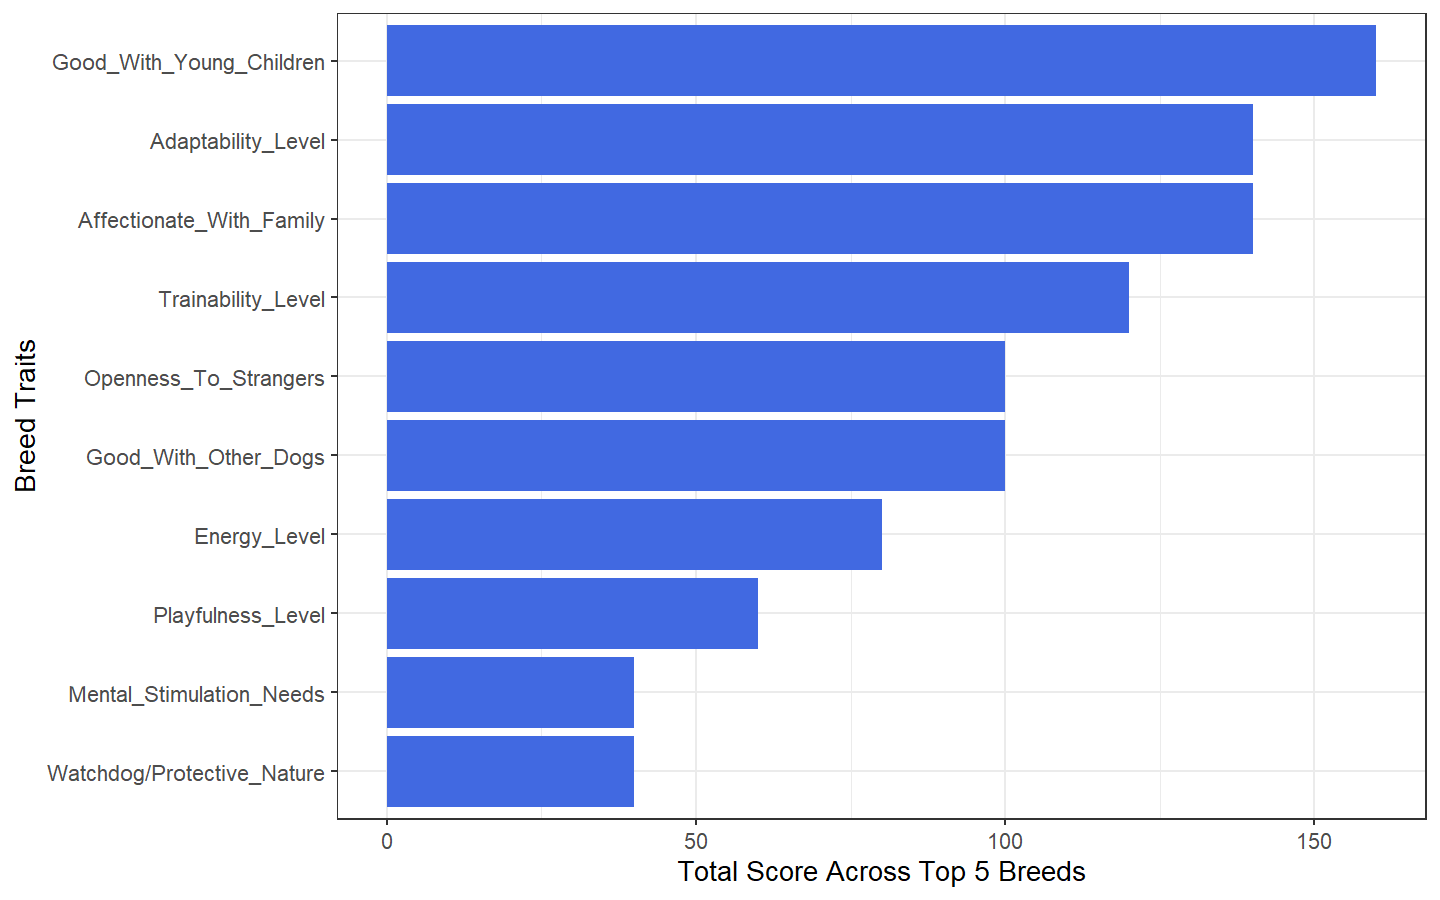
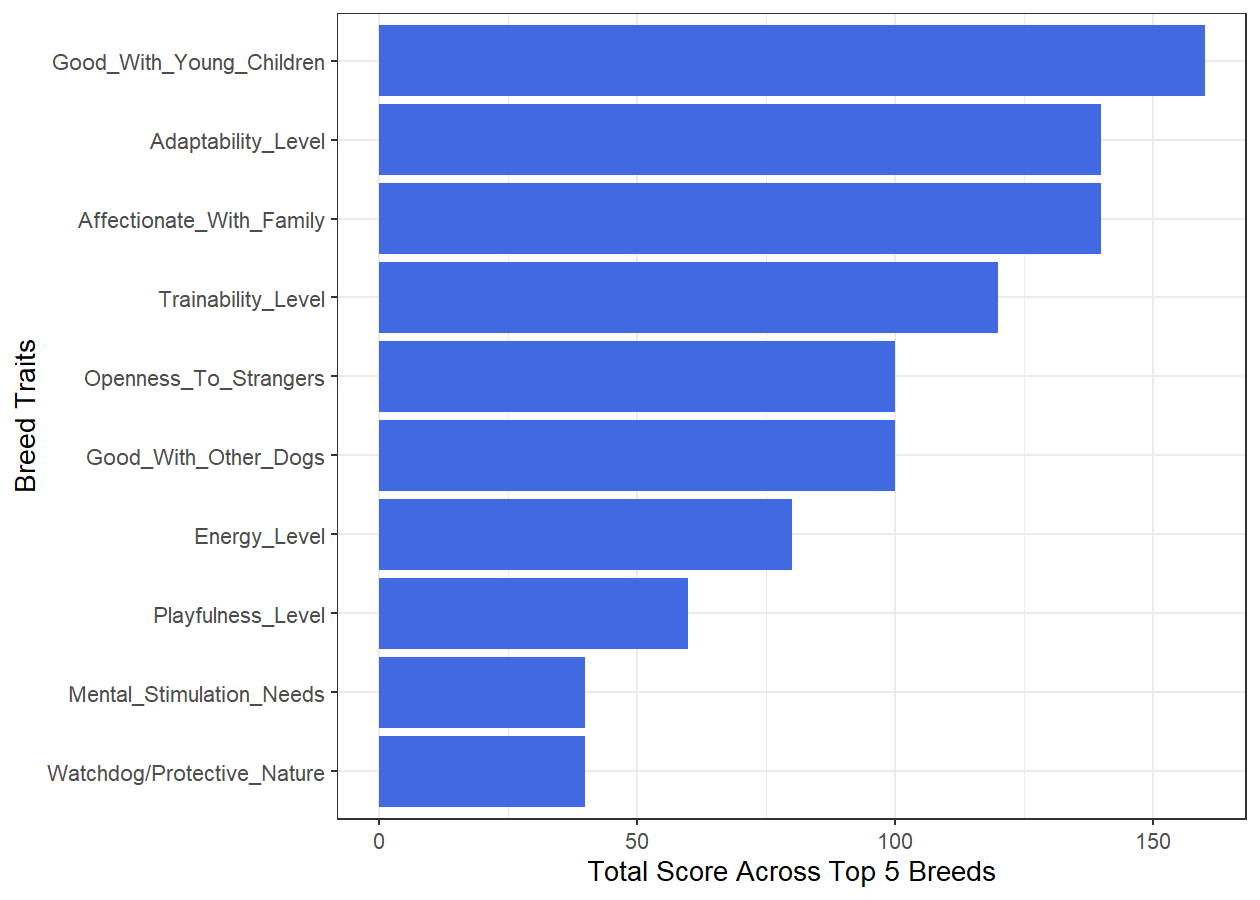
2022-04-12 @ 6:58pm commit

diff --git a/Output/TidyTuesday-2022-Wk-5-DogBreeds.md b/Output/TidyTuesday-2022-Wk-5-DogBreeds.md
@@ -42,7 +42,7 @@ library(knitr)
 
 knitr::opts_chunk$set(cache = TRUE, warning = FALSE,
                       message = FALSE, echo = TRUE, dpi = 180,
-                      fig.width = 8, out.height = 5)
+                      fig.width = 7, fig.height = 5)
 
 breed_traits <- readr::read_csv('https://raw.githubusercontent.com/rfordatascience/tidytuesday/master/data/2022/2022-02-01/breed_traits.csv')
 breed_rank_all <- readr::read_csv('https://raw.githubusercontent.com/rfordatascience/tidytuesday/master/data/2022/2022-02-01/breed_rank.csv')
@@ -201,7 +201,7 @@ melt_df %>%
   labs(x = "Breed Traits", y = "Total Score Across Top 5 Breeds")
 ```
 
-<img src="C:\Users\philwong\Documents\Analytics Training\R\TidyTuesday\Output\TidyTuesday-2022-Wk-5-DogBreeds_files/figure-gfm/unnamed-chunk-7-1.png" height="5" />
+![](C:\Users\philwong\Documents\Analytics%20Training\R\TidyTuesday\Output\TidyTuesday-2022-Wk-5-DogBreeds_files/figure-gfm/unnamed-chunk-7-1.png)<!-- -->
 
 ##### 4.2 - Any particular correlation that help potential dog owners select their breeds?
 
@@ -219,4 +219,4 @@ ggcorrplot(corr,
            colors = c("red", "grey", "royal blue"))
 ```
 
-<img src="C:\Users\philwong\Documents\Analytics Training\R\TidyTuesday\Output\TidyTuesday-2022-Wk-5-DogBreeds_files/figure-gfm/unnamed-chunk-8-1.png" height="5" />
+![](C:\Users\philwong\Documents\Analytics%20Training\R\TidyTuesday\Output\TidyTuesday-2022-Wk-5-DogBreeds_files/figure-gfm/unnamed-chunk-8-1.png)<!-- -->
